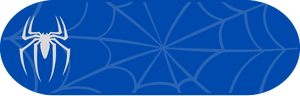
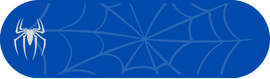
button 2

diff --git a/src/button.jsx b/src/button.jsx
@@ -1,9 +1,13 @@
 import React from 'react';
 import PropTypes from 'prop-types';
-import buttonBackground from './assets/buttonaranha.png'; // caminho para o PNG de fundo
+import buttonBackground1 from './assets/buttonaranha.png'; // caminho para o PNG de fundo
+import buttonBackground2 from './assets/button.png'; // caminho para o segundo PNG de fundo
 import './button.css';
 
-const ImageButton = ({ text }) => {
+const ImageButton = ({ text, imageType }) => {
+
+  const buttonBackground = imageType === 'azul' ? buttonBackground1 : buttonBackground2;
+
   return (
     <div className="container">
       <img src={buttonBackground} alt="Button Background" className="background" />
@@ -14,6 +18,7 @@ const ImageButton = ({ text }) => {
 
 ImageButton.propTypes = {
   text: PropTypes.string.isRequired, // texto a ser exibido sobre a imagem
+  imageType: PropTypes.string.isRequired, // tipo de imagem a ser exibida
 };
 
 export default ImageButton;

diff --git a/src/home.jsx b/src/home.jsx
@@ -8,9 +8,10 @@ function Home() {
         <>
             <div className='videoaq'><VideoBackground /></div>
             <div className='buttonaqui'>
-                <ImageButton text='A Festa' />
-                <ImageButton text='Localização' />
-                <ImageButton text='Lista de Presentes' />
+                <ImageButton text='A Festa' imageType='azul' />
+                <ImageButton text='Localização' imageType='azul' />
+                <ImageButton text='Sugestão de Presentes' imageType='azul' />
+                <ImageButton text='Confirmar Presença' imageType='vermelho' />
             </div>
         </>
     );

diff --git a/src/button.css b/src/button.css
@@ -8,7 +8,7 @@
 }
 
 .background {
-  width: 230px; /* Ajuste conforme necessário */
+  width: 180px; /* Ajuste conforme necessário */
   
 }
 
@@ -18,7 +18,7 @@
   left: 55%;
   transform: translate(-50%, -50%);
   color: white;
-  font-size: 18px;
+  font-size: 15px;
   font-weight: bold;
   text-shadow: 1px 1px 2px black; /* Sombra do texto para melhor visibilidade */
   z-index: 1; /* Coloca o texto acima da imagem */

diff --git a/src/MusicPlayer.jsx b/src/MusicPlayer.jsx
@@ -18,7 +18,7 @@ const MusicPlayer = () => {
 
   return (
     <div onClick={handlePlay} className="music-player" ref={playerRef}>
-      <Button text="Vamos nessa!" />
+      <Button text="Vamos nessa!" imageType='vermelho' />
       <audio ref={audioRef} src={audioSrc} />
       {/* Outros componentes ou informações do seu player */}
     </div>
